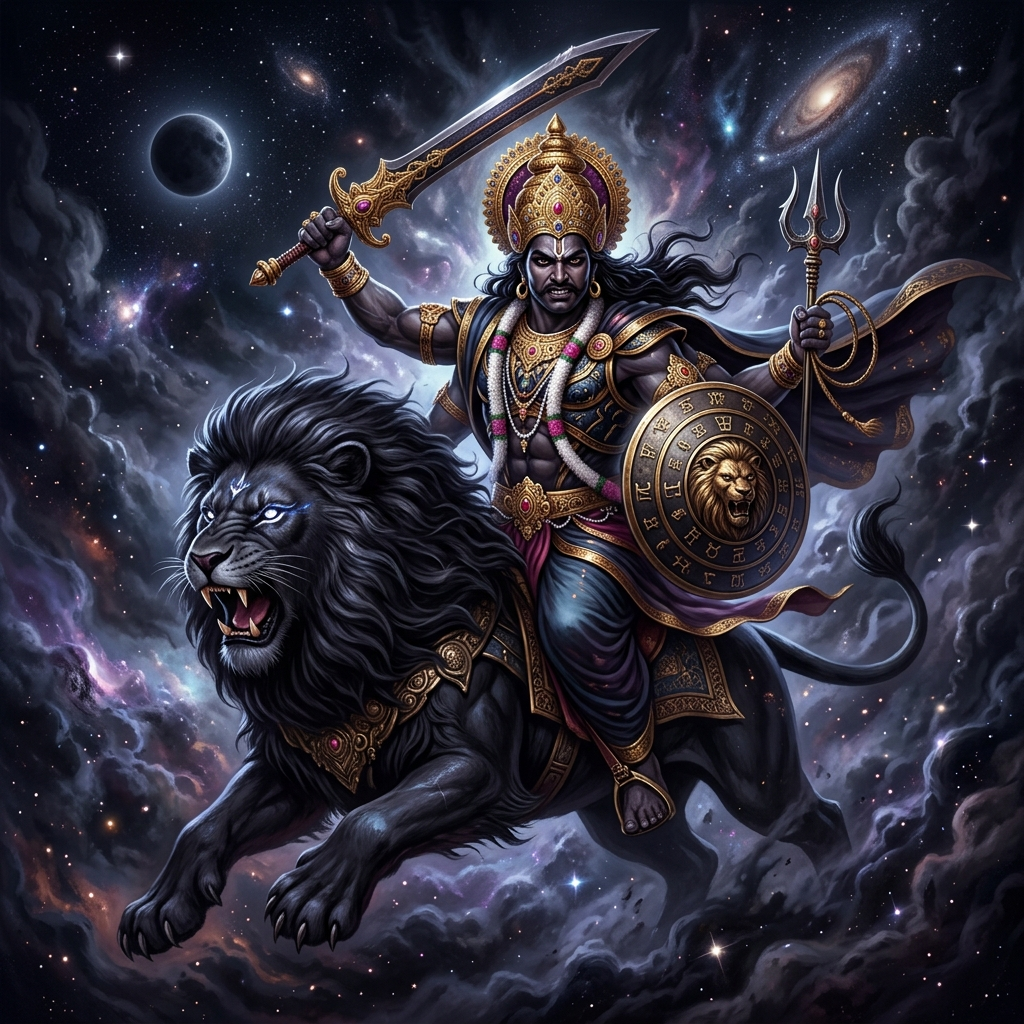
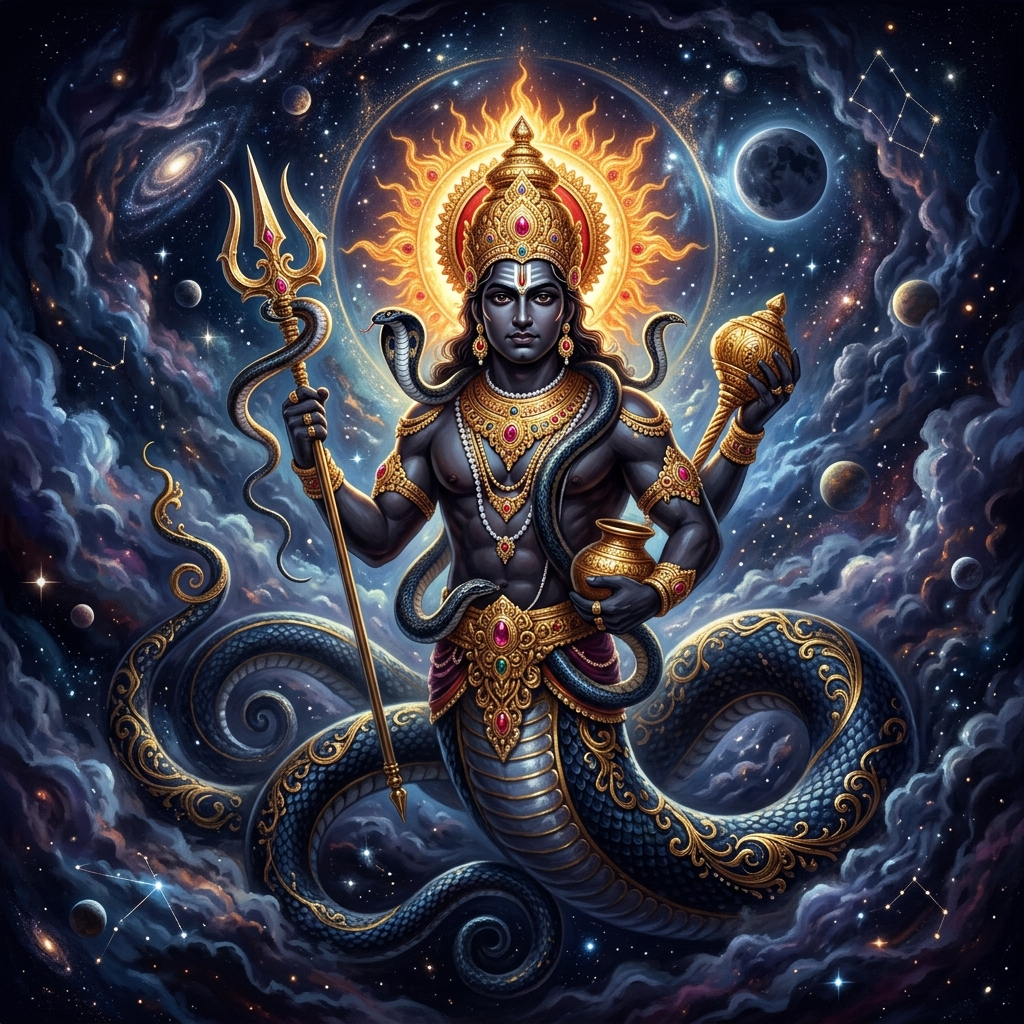
Feat: Update Rahu and Ketu to mythologically accurate images and add Karaka terms to Navagraha titles

diff --git a/static/index.html b/static/index.html
@@ -5878,12 +5878,12 @@
                 id: "surya",
                 image: "/assets/lord_surya_chariot.png",
                 name: {
-                    en: "भगवान सूर्य — Lord Surya",
-                    ta: "சூரிய பகவான் — Lord Surya",
-                    te: "సూర్య భగవానుడు — Lord Surya",
-                    ml: "സൂര്യ ഭഗവാൻ — Lord Surya",
-                    kn: "ಸೂರ್ಯ ಭಗವಾನ್ — Lord Surya",
-                    hi: "भगवान सूर्य — Lord Surya"
+                    en: "Lord Surya (Pitrukaraka)",
+                    ta: "பித்ருகாரகன் - சூரியன்",
+                    te: "పితృకారకుడు - సూర్యుడు",
+                    ml: "പിതൃകാരകൻ - സൂര്യൻ",
+                    kn: "ಪಿತೃಕಾರಕ - ಸೂರ್ಯ",
+                    hi: "पितृकारक - सूर्य"
                 },
                 importance: {
                     en: "The source of light, energy, and life. Governs the soul, leadership, vitality, willpower, and fatherly figure.",
@@ -5900,12 +5900,12 @@
                 id: "chandra",
                 image: "/assets/lord_chandra.png",
                 name: {
-                    en: "भगवान चन्द्र — Lord Chandra",
-                    ta: "சந்திர பகவான் — Lord Chandra",
-                    te: "చంద్ర భగవానుడు — Lord Chandra",
-                    ml: "ചന്ദ്ര ഭഗവാൻ — Lord Chandra",
-                    kn: "ಚಂದ್ರ ಭಗವಾನ್ — Lord Chandra",
-                    hi: "भगवान चन्द्र — Lord Chandra"
+                    en: "Lord Chandra (Matrukaraka)",
+                    ta: "மாத்ருகாரகன் - சந்திரன்",
+                    te: "మాతృకారకుడు - చంద్రుడు",
+                    ml: "മാതൃകാരകൻ - ചന്ദ്രൻ",
+                    kn: "ಮಾತೃಕಾರಕ - ಚಂದ್ರ",
+                    hi: "मातृकारक - चन्द्र"
                 },
                 importance: {
                     en: "Governs the mind, emotions, mother, mental peace, imagination, and emotional stability.",
@@ -5922,12 +5922,12 @@
                 id: "mangala",
                 image: "/assets/lord_mangala.png",
                 name: {
-                    en: "भगवान मंगल — Lord Mangala",
-                    ta: "அங்காரக பகவான் — Lord Mangala",
-                    te: "మంగళ భగవానుడు — Lord Mangala",
-                    ml: "മംഗള ഭഗവാൻ — Lord Mangala",
-                    kn: "ಮಂಗಳ ಭಗವಾನ್ — Lord Mangala",
-                    hi: "भगवान मंगल — Lord Mangala"
+                    en: "Lord Mangala (Bhratrukaraka)",
+                    ta: "பிராத்ருகாரகன் - செவ்வாய்",
+                    te: "భ్రాతృకారకుడు - అంగారకుడు",
+                    ml: "ഭ്രാതൃകാരകൻ - ചൊവ്വ",
+                    kn: "ಭ್ರಾತೃಕಾರಕ - ಮಂಗಳ",
+                    hi: "भ्रातृकारक - मंगल"
                 },
                 importance: {
                     en: "Governs courage, physical energy, strength, logic, action, real estate, and siblings.",
@@ -5944,12 +5944,12 @@
                 id: "budha",
                 image: "/assets/lord_budha.png",
                 name: {
-                    en: "भगवान बुध — Lord Budha",
-                    ta: "புத பகவான் — Lord Budha",
-                    te: "బుధ భగవానుడు — Lord Budha",
-                    ml: "ബുധ ഭഗവാൻ — Lord Budha",
-                    kn: "ಬುಧ ಭಗವಾನ್ — Lord Budha",
-                    hi: "भगवान बुध — Lord Budha"
+                    en: "Lord Budha (Buddhikaraka)",
+                    ta: "புத்திகாரகன் - புதன்",
+                    te: "बुద్ధికారకుడు - బుధుడు",
+                    ml: "ബുദ്ധികാരകൻ - ബുധൻ",
+                    kn: "ಬುದ್ಧಿಕಾರಕ - ಬುಧ",
+                    hi: "बुद्धिकारक - बुध"
                 },
                 importance: {
                     en: "Governs intellect, communication, speech, commerce, mathematical abilities, and wit.",
@@ -5966,12 +5966,12 @@
                 id: "guru",
                 image: "/assets/lord_guru.png",
                 name: {
-                    en: "भगवान गुरु — Lord Guru",
-                    ta: "குரு பகவான் — Lord Guru",
-                    te: "గురు భగవానుడు — Lord Guru",
-                    ml: "ഗുരു ഭഗവാൻ — Lord Guru",
-                    kn: "ಗುರು ಭಗವಾನ್ — Lord Guru",
-                    hi: "भगवान गुरु — Lord Guru"
+                    en: "Lord Guru (Putrakaraka)",
+                    ta: "புத்திரகாரகன் - குரு",
+                    te: "పుత్రకారకుడు - గురుడు",
+                    ml: "പുത്രകാരകൻ - ഗുരു",
+                    kn: "ಪುತ್ರಕಾರಕ - ಗುರು",
+                    hi: "पुत्रकारक - गुरु"
                 },
                 importance: {
                     en: "Governs wisdom, spirituality, wealth, education, growth, luck, and cosmic benevolence.",
@@ -5988,12 +5988,12 @@
                 id: "shukra",
                 image: "/assets/lord_shukra.png",
                 name: {
-                    en: "भगवान शुक्र — Lord Shukra",
-                    ta: "சுக்கிர பகவான் — Lord Shukra",
-                    te: "శుక్ర భగవానుడు — Lord Shukra",
-                    ml: "ശുക്ര ഭഗവാൻ — Lord Shukra",
-                    kn: "ಶುಕ್ರ ಭಗವಾನ್ — Lord Shukra",
-                    hi: "भगवान शुक्र — Lord Shukra"
+                    en: "Lord Shukra (Kalatrakaraka)",
+                    ta: "களத்திரகாரகன் - சுக்கிரன்",
+                    te: "కళత్రకారకుడు - శుక్రుడు",
+                    ml: "കളത്രகாரകൻ - శుക്രൻ",
+                    kn: "ಕಳತ್ರಕಾರಕ - ಶುಕ್ರ",
+                    hi: "कलत्रकारक - शुक्र"
                 },
                 importance: {
                     en: "Governs love, marriage, beauty, fine arts, luxuries, automobiles, and creative talents.",
@@ -6010,12 +6010,12 @@
                 id: "shani",
                 image: "/assets/lord_shani.png",
                 name: {
-                    en: "भगवान शनि — Lord Shani",
-                    ta: "சனி பகவான் — Lord Shani",
-                    te: "శని భగవానుడు — Lord Shani",
-                    ml: "ശനി ഭഗവാൻ — Lord Shani",
-                    kn: "ಶನಿ ಭಗವಾನ್ — Lord Shani",
-                    hi: "भगवान शनि — Lord Shani"
+                    en: "Lord Shani (Ayushkaraka)",
+                    ta: "ஆயுள்காரகன் - சனி",
+                    te: "ఆయుష్కారకుడు - శని",
+                    ml: "ஆയുഷ്കാരകൻ - శനി",
+                    kn: "ಆಯುಷ್ಕಾರಕ - ಶನಿ",
+                    hi: "आयुष्कारक - शनि"
                 },
                 importance: {
                     en: "Governs karma, justice, discipline, patience, hard work, longevity, and structural order.",
@@ -6032,12 +6032,12 @@
                 id: "rahu",
                 image: "/assets/lord_rahu.png",
                 name: {
-                    en: "भगवान राहु — Lord Rahu",
-                    ta: "ராகு பகவான் — Lord Rahu",
-                    te: "రాహు భగవానుడు — Lord Rahu",
-                    ml: "രാహు ഭഗവാൻ — Lord Rahu",
-                    kn: "ರಾಹು ಭಗವಾನ್ — Lord Rahu",
-                    hi: "भगवान राहु — Lord Rahu"
+                    en: "Lord Rahu (Bhogakaraka)",
+                    ta: "போககாரகன் - ராகு",
+                    te: "భోగకారకుడు - రాహువు",
+                    ml: "ഭോഗകാരകൻ - രാഹു",
+                    kn: "ಭೋಗಕಾರಕ - ರಾಹು",
+                    hi: "भोगकारक - राहु"
                 },
                 importance: {
                     en: "Governs worldly desires, ambition, innovation, foreign connections, and sudden events.",
@@ -6054,12 +6054,12 @@
                 id: "ketu",
                 image: "/assets/lord_ketu.png",
                 name: {
-                    en: "भगवान केतु — Lord Ketu",
-                    ta: "கேது பகவான் — Lord Ketu",
-                    te: "కేతు భగవానుడు — Lord Ketu",
-                    ml: "கேതു ഭഗവാൻ — Lord Ketu",
-                    kn: "ಕೇತು ಭಗವಾನ್ — Lord Ketu",
-                    hi: "भगवान केतु — Lord Ketu"
+                    en: "Lord Ketu (Mokshakaraka)",
+                    ta: "மோக்ஷகாரகன் - கேது",
+                    te: "మోక్షకారకుడు - కేతువు",
+                    ml: "மோക്ഷகாரകൻ - கேது",
+                    kn: "ಮೋಕ್ಷಕಾರಕ - ಕೇತು",
+                    hi: "मोक्षकारक - केतु"
                 },
                 importance: {
                     en: "Governs spiritual liberation (Moksha), detachment, wisdom, intuition, and mystical secrets.",